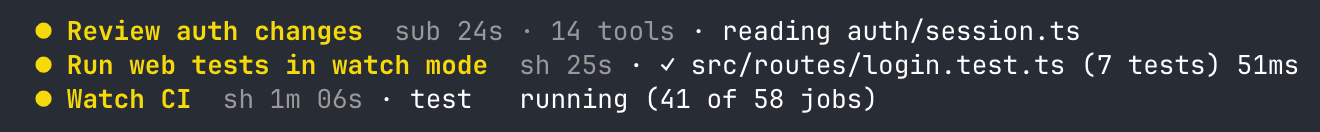
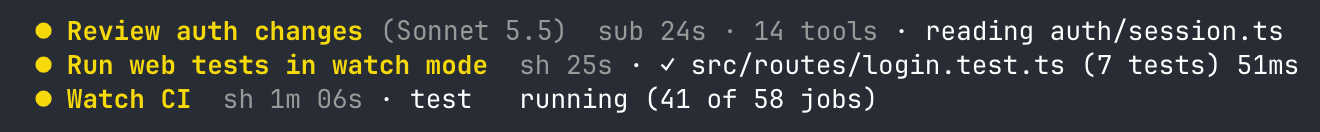
agent-radar shows each subagent's model
A subagent's line now names the model it runs on, like `sweep runner (Sonnet 5.5)`,
in the band, the /radar list and the agent's pane. agent-radar goes to 0.3.0.

Changed region(s): [[0.2795, 0.1515, 0.9939, 0.3333]]

diff --git a/site/mods/agent-radar/index.html b/site/mods/agent-radar/index.html
@@ -4,7 +4,7 @@
 <meta charset="utf-8">
 <meta name="viewport" content="width=device-width, initial-scale=1">
 <title>agent-radar: track running Claude Code subagents and shells live</title>
-<meta name="description" content="One live line above the Claude Code prompt per running subagent or background shell: time, tool count and what it&#x27;s doing. /radar shows every agent and its messages.">
+<meta name="description" content="One live line above the Claude Code prompt per running subagent or background shell: its model, time, tool count and what it&#x27;s doing. /radar shows every agent and its messages.">
 <link rel="canonical" href="https://hamzafer.github.io/claude-code-mods/mods/agent-radar/">
 <meta name="color-scheme" content="light dark">
 <meta name="theme-color" content="#eef0f3" media="(prefers-color-scheme: light)">
@@ -12,20 +12,20 @@
 <meta property="og:type" content="website">
 <meta property="og:site_name" content="Claude Code mods">
 <meta property="og:title" content="agent-radar: track running Claude Code subagents and shells live">
-<meta property="og:description" content="One live line above the Claude Code prompt per running subagent or background shell: time, tool count and what it&#x27;s doing. /radar shows every agent and its messages.">
+<meta property="og:description" content="One live line above the Claude Code prompt per running subagent or background shell: its model, time, tool count and what it&#x27;s doing. /radar shows every agent and its messages.">
 <meta property="og:url" content="https://hamzafer.github.io/claude-code-mods/mods/agent-radar/">
 <meta property="og:image" content="https://hamzafer.github.io/claude-code-mods/images/og.png">
 <meta property="og:image:alt" content="Claude Code mods: lines above the prompt">
 <meta name="twitter:card" content="summary_large_image">
 <meta name="twitter:title" content="agent-radar: track running Claude Code subagents and shells live">
-<meta name="twitter:description" content="One live line above the Claude Code prompt per running subagent or background shell: time, tool count and what it&#x27;s doing. /radar shows every agent and its messages.">
+<meta name="twitter:description" content="One live line above the Claude Code prompt per running subagent or background shell: its model, time, tool count and what it&#x27;s doing. /radar shows every agent and its messages.">
 <meta name="twitter:image" content="https://hamzafer.github.io/claude-code-mods/images/og.png">
 <link rel="icon" href="../../favicon.svg" type="image/svg+xml">
 <link rel="preconnect" href="https://fonts.googleapis.com">
 <link rel="preconnect" href="https://fonts.gstatic.com" crossorigin>
 <link rel="stylesheet" href="https://fonts.googleapis.com/css2?family=Atkinson+Hyperlegible+Mono:wght@400;600&family=Atkinson+Hyperlegible+Next:wght@400;600;700&display=swap">
 <link rel="stylesheet" href="../../style.css">
-<script type="application/ld+json">{"@context": "https://schema.org", "@type": "SoftwareSourceCode", "name": "agent-radar", "description": "One live line above the Claude Code prompt per running subagent or background shell: time, tool count and what it's doing. /radar shows every agent and its messages.", "url": "https://hamzafer.github.io/claude-code-mods/mods/agent-radar/", "codeRepository": "https://github.com/hamzafer/claude-code-mods/tree/main/mods/agent-radar", "programmingLanguage": "TypeScript", "runtimePlatform": "Claude Code", "version": "0.2.0", "license": "https://opensource.org/licenses/MIT", "author": {"@type": "Person", "name": "hamzafer", "url": "https://github.com/hamzafer"}, "image": "https://hamzafer.github.io/claude-code-mods/images/og.png", "isPartOf": {"@type": "CollectionPage", "name": "Claude Code mods", "url": "https://hamzafer.github.io/claude-code-mods/"}}</script>
+<script type="application/ld+json">{"@context": "https://schema.org", "@type": "SoftwareSourceCode", "name": "agent-radar", "description": "One live line above the Claude Code prompt per running subagent or background shell: its model, time, tool count and what it's doing. /radar shows every agent and its messages.", "url": "https://hamzafer.github.io/claude-code-mods/mods/agent-radar/", "codeRepository": "https://github.com/hamzafer/claude-code-mods/tree/main/mods/agent-radar", "programmingLanguage": "TypeScript", "runtimePlatform": "Claude Code", "version": "0.3.0", "license": "https://opensource.org/licenses/MIT", "author": {"@type": "Person", "name": "hamzafer", "url": "https://github.com/hamzafer"}, "image": "https://hamzafer.github.io/claude-code-mods/images/og.png", "isPartOf": {"@type": "CollectionPage", "name": "Claude Code mods", "url": "https://hamzafer.github.io/claude-code-mods/"}}</script>
 <script type="application/ld+json">{"@context": "https://schema.org", "@type": "BreadcrumbList", "itemListElement": [{"@type": "ListItem", "position": 1, "name": "Claude Code mods", "item": "https://hamzafer.github.io/claude-code-mods/"}, {"@type": "ListItem", "position": 2, "name": "agent-radar", "item": "https://hamzafer.github.io/claude-code-mods/mods/agent-radar/"}]}</script>
 </head>
 <body class="mod c-see">
@@ -42,10 +42,10 @@
 <nav class="crumbs" aria-label="Breadcrumb"><a href="../../">claude-code-mods</a> <span aria-hidden="true">/</span> <a href="../../#cat-see">See what&#x27;s happening</a> <span aria-hidden="true">/</span> <span aria-current="page">agent-radar</span></nav>
 <header class="mod-head">
   <h1>agent-radar</h1>
-  <p class="lede">One live line above the prompt per running subagent or background shell: time, tool count and what it&#x27;s doing.</p>
-  <p class="meta"><span class="cat-chip"><span class="sq" aria-hidden="true">■</span> See what&#x27;s happening</span> <span>Version 0.2.0</span></p>
+  <p class="lede">One live line above the prompt per running subagent or background shell: its model, time, tool count and what it&#x27;s doing.</p>
+  <p class="meta"><span class="cat-chip"><span class="sq" aria-hidden="true">■</span> See what&#x27;s happening</span> <span>Version 0.3.0</span></p>
 </header>
-<figure class="shot shot-wide"><div class="shot-frame"><img style="--w:660px" src="../../images/agent-radar.png" width="1320" height="132" alt="agent-radar: a review subagent at 24s with 14 tools, and two background shells, web tests and Watch CI, with their latest output" decoding="async" fetchpriority="high"></div><figcaption>A subagent and two background shells, each with its latest line.</figcaption></figure>
+<figure class="shot shot-wide"><div class="shot-frame"><img style="--w:660px" src="../../images/agent-radar.png" width="1320" height="132" alt="agent-radar: a review subagent on Sonnet 5.5 at 24s with 14 tools, and two background shells, web tests and Watch CI, with their latest output" decoding="async" fetchpriority="high"></div><figcaption>A subagent and two background shells, each with its latest line.</figcaption></figure>
 <div class="mod-body">
 <div class="mod-main">
 <section aria-labelledby="install-h"><h2 id="install-h">Install</h2>
@@ -68,6 +68,7 @@ claude plugin install agent-radar@claude-code-mods"><code><span class="ps" aria-
 </section>
 <section aria-labelledby="how-h"><h2 id="how-h">How it behaves</h2>
 <ul class="notes">
+<li>A subagent&#x27;s line names the model it runs on, like <code>sweep runner (Sonnet 5.5)</code>.</li>
 <li>A finished agent shows a check for 30 seconds, then its line goes away.</li>
 <li>A toast says when each one finishes.</li>
 <li>A background Bash command (<code>run_in_background</code>, or one moved to the background with Ctrl+B) gets a line too, tagged <code>sh</code>. One that runs <code>codex exec</code>, <code>opencode run</code> and the like is labeled with that agent and model. It ends when Claude Code closes its output file, found by <code>lsof</code> every 5 seconds, so without <code>lsof</code> it stays &quot;running&quot;.</li>

diff --git a/site/index.html b/site/index.html
@@ -95,7 +95,7 @@
       <li class="row has-thumb"><a href="mods/heatmap/"><span class="row-text"><span class="row-name">heatmap</span><span class="row-desc">A GitHub-style grid of your Claude Code time, with your streak and top projects</span><code class="cmd">/heatmap</code></span><span class="row-thumb"><img style="max-width:418px" src="images/gallery/heatmap.png" width="836" height="412" alt="heatmap: a year of Claude Code activity as orange squares, with a 25-day streak, peak hours and top projects" decoding="async" loading="lazy"></span></a></li>
       <li class="row has-thumb"><a href="mods/openai-balance/"><span class="row-text"><span class="row-name">openai-balance</span><span class="row-desc">Your OpenAI API credit, today&#x27;s spend, where it went and the last call</span><code class="cmd">/openai-balance</code></span><span class="row-thumb"><img style="max-width:627px" src="images/openai-balance.png" width="1254" height="70" alt="openai-balance: about $13.67 of $13.82 left with a green gauge, $0.21 spent today, last call on gpt-5" decoding="async" loading="lazy"></span></a></li>
       <li class="row has-thumb"><a href="mods/openrouter-balance/"><span class="row-text"><span class="row-name">openrouter-balance</span><span class="row-desc">Your OpenRouter credit, today&#x27;s spend and where it mostly went</span><code class="cmd">/openrouter-balance</code></span><span class="row-thumb"><img style="max-width:310px" src="images/openrouter-balance.png" width="620" height="33" alt="openrouter-balance: $2.67 of a $3.00 key limit left with a gauge, $0.33 spent today" decoding="async" loading="lazy"></span></a></li>
-      <li class="row has-thumb"><a href="mods/agent-radar/"><span class="row-text"><span class="row-name">agent-radar</span><span class="row-desc">One live line per running subagent or background shell</span><code class="cmd">/radar</code></span><span class="row-thumb"><img style="max-width:660px" src="images/agent-radar.png" width="1320" height="132" alt="agent-radar: a review subagent at 24s with 14 tools, and two background shells, web tests and Watch CI, with their latest output" decoding="async" loading="lazy"></span></a></li>
+      <li class="row has-thumb"><a href="mods/agent-radar/"><span class="row-text"><span class="row-name">agent-radar</span><span class="row-desc">One live line per running subagent or background shell</span><code class="cmd">/radar</code></span><span class="row-thumb"><img style="max-width:660px" src="images/agent-radar.png" width="1320" height="132" alt="agent-radar: a review subagent on Sonnet 5.5 at 24s with 14 tools, and two background shells, web tests and Watch CI, with their latest output" decoding="async" loading="lazy"></span></a></li>
       <li class="row has-thumb"><a href="mods/review-watch/"><span class="row-text"><span class="row-name">review-watch</span><span class="row-desc">One live line per running code review, Codex or a review subagent</span></span><span class="row-thumb"><img style="max-width:556px" src="images/review-watch.png" width="1112" height="116" alt="review-watch: an agent review on haiku at 5s and a codex review at 6s, with Codex&#x27;s latest line, starting review of 3 files" decoding="async" loading="lazy"></span></a></li>
       <li class="row has-thumb"><a href="mods/browser-lanes/"><span class="row-text"><span class="row-name">browser-lanes</span><span class="row-desc">Whether this session has a browser, and who holds it</span><code class="cmd">/browser</code></span><span class="row-thumb"><img style="max-width:883px" src="images/bands.png" width="1766" height="180" alt="browser-lanes line in red: browser NOT attached, another Claude holds the shared profile, above token-weather and where-am-i" decoding="async" loading="lazy"></span></a></li>
       <li class="row has-thumb"><a href="mods/prayer-times/"><span class="row-text"><span class="row-name">prayer-times</span><span class="row-desc">The current prayer and how long is left, the next one, and zawal</span><code class="cmd">/prayers</code></span><span class="row-thumb"><img style="max-width:330px" src="images/prayer-times.png" width="660" height="35" alt="prayer-times line: Dhuhr, 1h 26m left, next Asr 16:32" decoding="async" loading="lazy"></span></a></li>

diff --git a/mods/agent-radar/hooks/register.tsx b/mods/agent-radar/hooks/register.tsx
@@ -52,7 +52,7 @@ export const register: Register = on => {
     const r = await next(e)
     if (r.agentId) {
       const id = r.agentId
-      const one: RadarAgent = { id, kind: 'agent', description: e.description || e.name || e.subagentType, type: e.subagentType, status: 'running', startedAt: Date.now(), tools: 0, last: 'starting' }
+      const one: RadarAgent = { id, kind: 'agent', description: e.description || e.name || e.subagentType, type: e.subagentType, model: r.model, status: 'running', startedAt: Date.now(), tools: 0, last: 'starting' }
       await update($, agents, list => [one, ...list.filter(a => a.id !== id)].slice(0, 30))
     }
     return r
@@ -118,7 +118,7 @@ export const register: Register = on => {
         {shown.slice(0, BAND_ROWS).map(a => (
           <Text wrap="truncate-end">
             <Text color={color(a)} bold>{` ${icon(a)} ${a.description}`}</Text>
-            <Text dimColor>{`  ${tag(a)} ${elapsed(a)}${kindOf(a) === 'agent' ? ` · ${a.tools} tools` : ''}`}</Text>
+            <Text dimColor>{`${modelTag(a)}  ${tag(a)} ${elapsed(a)}${kindOf(a) === 'agent' ? ` · ${a.tools} tools` : ''}`}</Text>
             {a.status === 'running' && <Text>{` · ${a.last}`}</Text>}
             {a.status === 'failed' && <Text color="red">{` · ${a.last}`}</Text>}
           </Text>
@@ -166,7 +166,7 @@ export const register: Register = on => {
         <Box flexDirection="column">
           <Text>
             <Text color={color(one)} bold>{`${icon(one)} ${one.description}`}</Text>
-            <Text dimColor>{`  ${one.type} · ${elapsed(one)} · ${one.tools} tools`}</Text>
+            <Text dimColor>{`${modelTag(one)}  ${one.type} · ${elapsed(one)} · ${one.tools} tools`}</Text>
           </Text>
           <Text dimColor wrap="truncate-end">{`now: ${one.last}`}</Text>
           <Text dimColor>{'─'.repeat(Math.max(10, e.props.bodyColumns - 2))}</Text>
@@ -196,7 +196,7 @@ export const register: Register = on => {
             plain
             hotkey={String(i + 1)}
             dimColor={a.status !== 'running'}
-            label={`${icon(a)} ${a.description} · ${tag(a)} · ${elapsed(a)}${kindOf(a) === 'agent' ? ` · ${a.tools} tools` : ''}${a.status === 'done' ? '' : ` · ${a.last}`}`}
+            label={`${icon(a)} ${title(a)} · ${tag(a)} · ${elapsed(a)}${kindOf(a) === 'agent' ? ` · ${a.tools} tools` : ''}${a.status === 'done' ? '' : ` · ${a.last}`}`}
             onPress={() => update($, selected, () => a.id)}
           />
         ))}
@@ -315,6 +315,29 @@ function tag(a: Pick<RadarAgent, 'kind'>) {
 // Running, or finished in the last 30 s.
 export function isShown(a: RadarAgent, at = Date.now()) {
   return a.status === 'running' || (a.endedAt !== undefined && at - a.endedAt < SHOW_DONE_MS)
+}
+
+// The description, then the model in parentheses when one is known: `sweep runner (Sonnet 5.5)`.
+function title(a: Pick<RadarAgent, 'description' | 'model'>) {
+  return a.description + modelTag(a)
+}
+
+// ` (Sonnet 5.5)`, or '' with no model: drawn dim after the bold description.
+function modelTag(a: Pick<RadarAgent, 'model'>) {
+  return a.model ? ` (${modelName(a.model)})` : ''
+}
+
+// `claude-sonnet-5-5` -> `Sonnet 5.5`, `us.anthropic.claude-3-5-haiku-20241022-v1:0` -> `Haiku 3.5`,
+// `opus` -> `Opus`; anything else as it came.
+export function modelName(id: string): string {
+  const parts = id.toLowerCase().replace(/\[.*\]$/, '').split(/[-.:@_/]/)
+  const family = parts.find(p => ['fable', 'opus', 'sonnet', 'haiku'].includes(p))
+  if (!family) return id
+  const start = parts.findIndex(p => /^\d{1,2}$/.test(p))
+  const version: string[] = []
+  for (let i = start; i >= 0 && i < parts.length && version.length < 2 && /^\d{1,2}$/.test(parts[i]!); i++) version.push(parts[i]!)
+  const name = family[0]!.toUpperCase() + family.slice(1)
+  return version.length ? `${name} ${version.join('.')}` : name
 }
 
 function icon(a: RadarAgent) {

diff --git a/mods/agent-radar/tests/agent-radar.test.tsx b/mods/agent-radar/tests/agent-radar.test.tsx
@@ -1,6 +1,6 @@
 import { describe, expect, mock, test } from 'claude-code/testing'
 
-import { describe as label, elapsed, isShown, resetBandOrder } from '../hooks/register'
+import { describe as label, elapsed, isShown, modelName, resetBandOrder } from '../hooks/register'
 import { agentOf, baseName, outputPathOf, shellLabel, tailLines } from '../hooks/watch'
 
 const BAND = { component: 'AbovePrompt', props: { hasSurvey: false, isWorking: true, maxRows: 10, bodyColumns: 120 } }
@@ -67,7 +67,8 @@ describe('agent-radar', () => {
     await $.agent.spawn({ prompt: 'run it', description: 'sweep runner' } as any)
 
     const band = await $.ui.mount({ plugin: 'agent-radar', surface: 'terminal', ...BAND } as any)
-    expect(await band.find({ type: 'Text', text: / ● sweep runner/ })).toBeDefined()
+    expect(await band.find({ type: 'Text', text: / ● sweep runner$/ })).toBeDefined()
+    expect(await band.find({ type: 'Text', text: /^ \(Sonnet\)  sub / })).toBeDefined()
     expect(await band.find({ type: 'Text', text: /band below/ })).toBeDefined()
     // the radar sits on top: what other mods draw stays below it
     const root: any = await band.drawn()
@@ -107,6 +108,15 @@ describe('agent-radar', () => {
     const root: any = await band.drawn()
     expect(root.children.map((c: any) => c.props.key)).toEqual(['band:where-am-i', 'band:agent-radar'])
     await band.unmount()
+  })
+
+  test('model names', () => {
+    expect(modelName('claude-sonnet-5-5')).toBe('Sonnet 5.5')
+    expect(modelName('claude-opus-4-1-20250805')).toBe('Opus 4.1')
+    expect(modelName('us.anthropic.claude-3-5-haiku-20241022-v1:0')).toBe('Haiku 3.5')
+    expect(modelName('claude-fable-5-1[1m]')).toBe('Fable 5.1')
+    expect(modelName('haiku')).toBe('Haiku')
+    expect(modelName('gpt-5')).toBe('gpt-5')
   })
 
   test('background command helpers', () => {

diff --git a/mods/agent-radar/types/index.d.ts b/mods/agent-radar/types/index.d.ts
@@ -9,6 +9,7 @@ export type RadarAgent = {
   endedAt?: number
   tools: number
   last: string
+  model?: string // agent: the model it runs on, as agent.spawn resolved it
   kind?: RadarKind // absent: a subagent
   command?: string // shell: the Bash command
   detail?: string // shell: the Bash description, else the start of the command

diff --git a/README.md b/README.md
@@ -91,7 +91,7 @@ claude --plugin-dir mods/context-bar
 | 🔥 | **heatmap** | A GitHub-style grid of your Claude Code time, with your streak, peak hours and top projects | `/heatmap` |
 | 💳 | **openai-balance** | Your OpenAI API credit: an estimated balance with a gauge, today's spend, where the money mostly went, and the last call. Needs an OpenAI organization Admin key | `/openai-balance` |
 | 🪙 | **openrouter-balance** | Your OpenRouter credit: the real balance with a gauge, today's spend and the model the money mostly went to. A regular API key shows the balance too when OpenRouter allows it, plus its own spend and limit | `/openrouter-balance` |
-| 📡 | **agent-radar** | One live line per running subagent or background shell | `/radar` |
+| 📡 | **agent-radar** | One live line per running subagent (with its model) or background shell | `/radar` |
 | 🔍 | **review-watch** | One live line per running code review (Codex or a review subagent) with the model, target, elapsed time and Codex's latest output. A toast lists the findings when it ends | |
 | 🌐 | **browser-lanes** | Whether this session has a browser, and who holds it | `/browser` |
 | 🕌 | **prayer-times** | The current prayer and how long is left, the next one, and zawal. Computed on your computer, Hanafi or standard Asr | `/prayers` |

diff --git a/docs/mods.md b/docs/mods.md
@@ -179,6 +179,7 @@ Shows one live line per running Claude Code subagent or background shell.
 
 ![agent-radar: a running subagent and two background shells with their latest output above the Claude Code prompt](../images/agent-radar.png)
 
+- A subagent's line names the model it runs on, like `sweep runner (Sonnet 5.5)`
 - A finished agent shows a check for 30 seconds, then its line goes away
 - A toast says when each one finishes
 - `/radar` lists every agent this session
